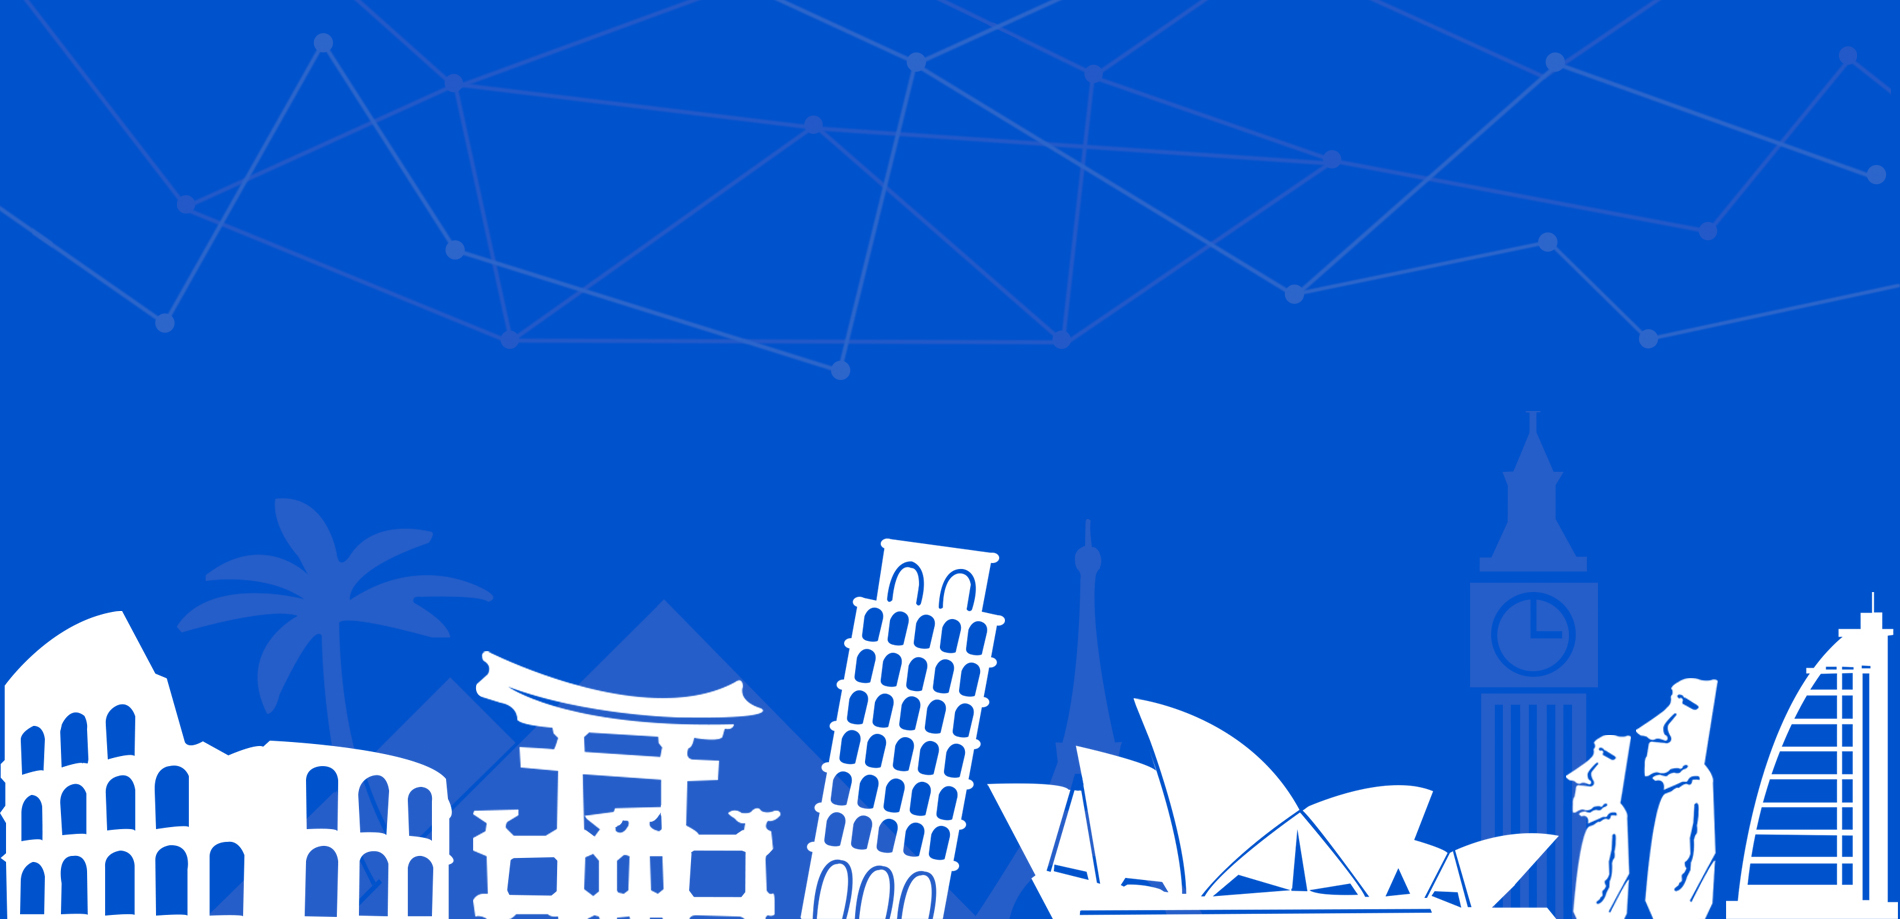
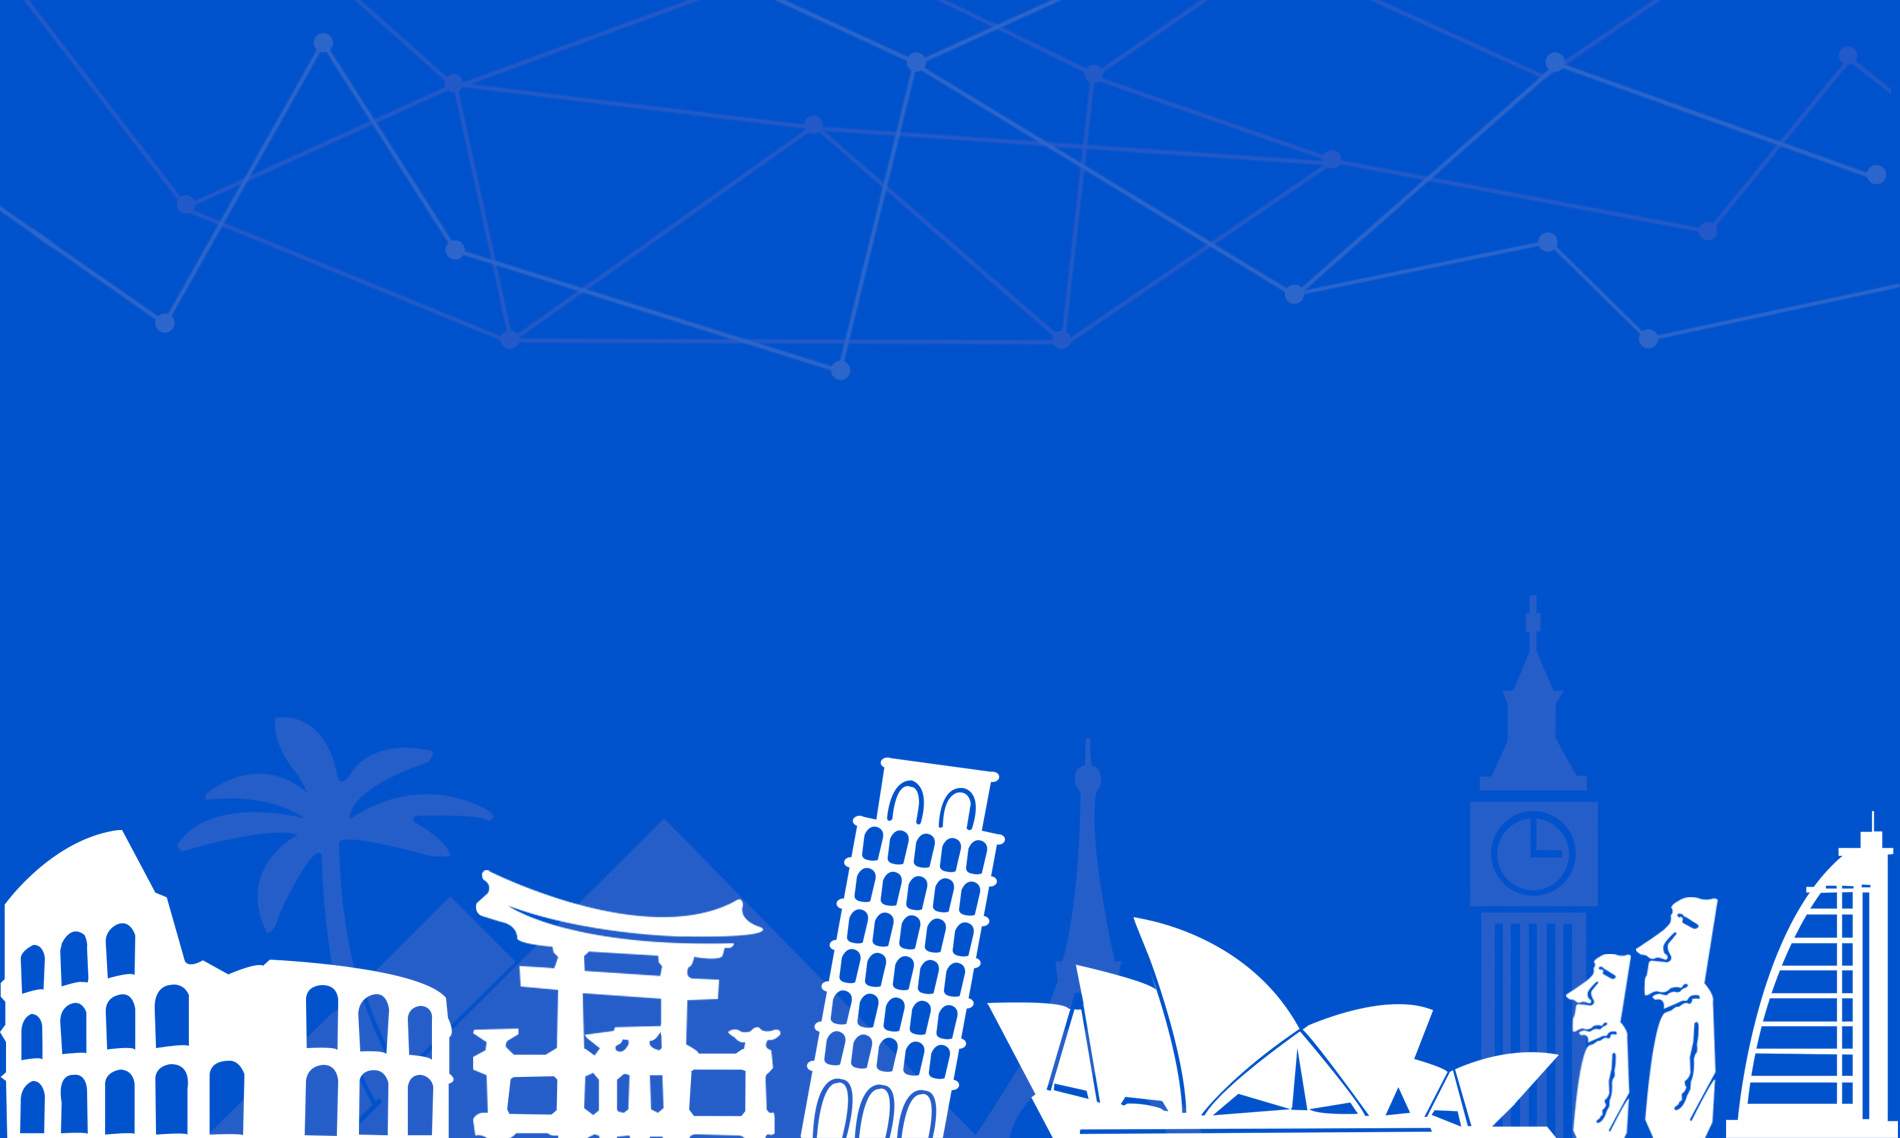
up

diff --git a/css/landing-page.css b/css/landing-page.css
@@ -31,7 +31,7 @@ h6 {
     padding-bottom: 50px;
     text-align: center;
     color: #f8f8f8;
-    background: url(../img/intro-bg.jpg?v=3) no-repeat center center;
+    background: url(../img/intro-bg.jpg?v=3.1) no-repeat center center;
     background-size: cover;
 }
 
@@ -43,7 +43,6 @@ h6 {
 
 .intro-message > h1 {
     margin: 0;
-    text-shadow: 2px 2px 3px rgba(0,0,0,0.6);
     font-size: 5em;
 }
 
@@ -54,7 +53,7 @@ h6 {
 }
 
 .intro-message > h3 {
-    text-shadow: 2px 2px 3px rgba(0,0,0,0.6);
+    
 }
 
 @media(max-width:767px) {

diff --git a/_includes/head.html b/_includes/head.html
@@ -12,7 +12,7 @@
     <link href="css/bootstrap.min.css" rel="stylesheet">
 
     <!-- Custom CSS -->
-    <link href="css/landing-page.css?v=3" rel="stylesheet">
+    <link href="css/landing-page.css?v=3.1" rel="stylesheet">
 
     <!-- Custom Fonts -->
     <link href="font-awesome-4.1.0/css/font-awesome.min.css" rel="stylesheet" type="text/css">
